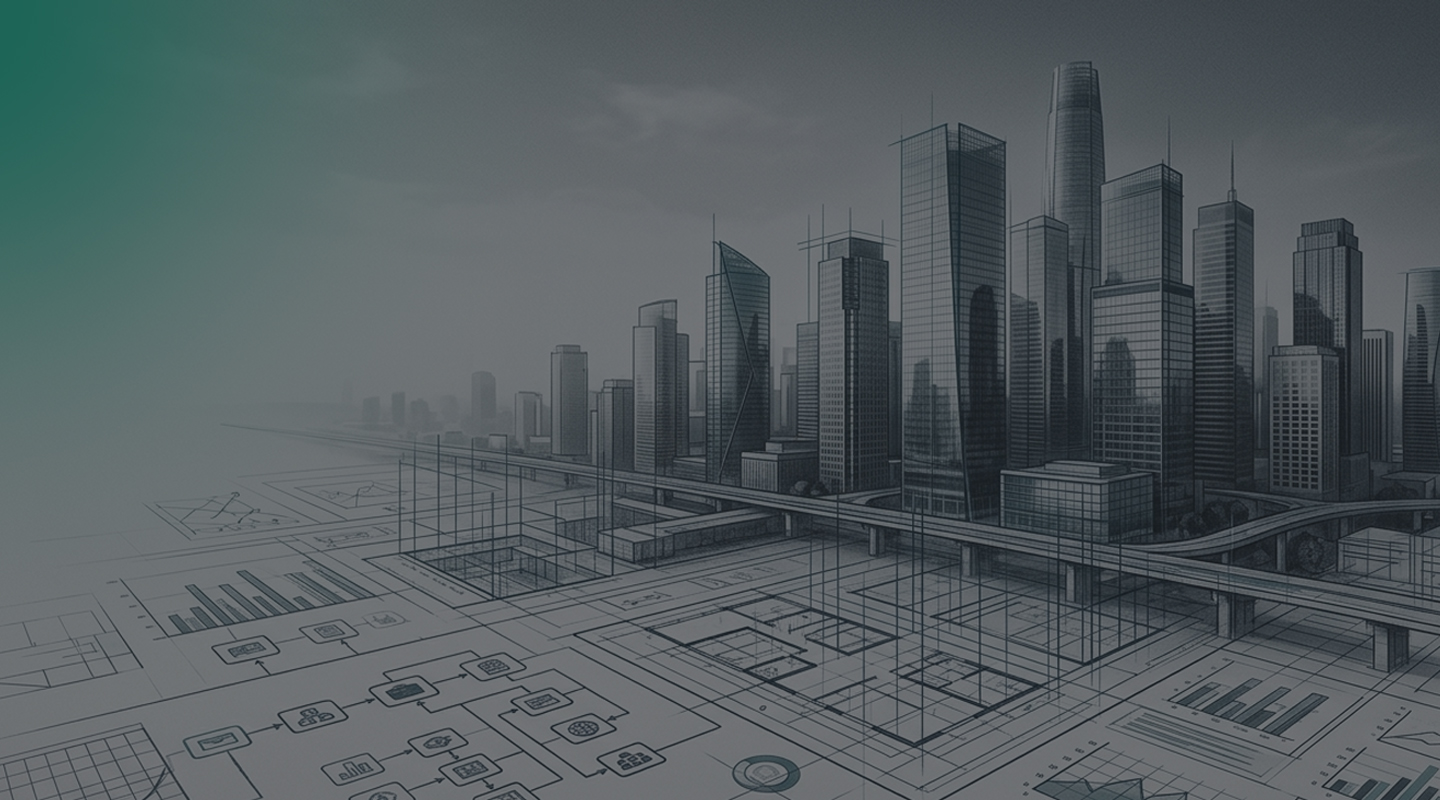
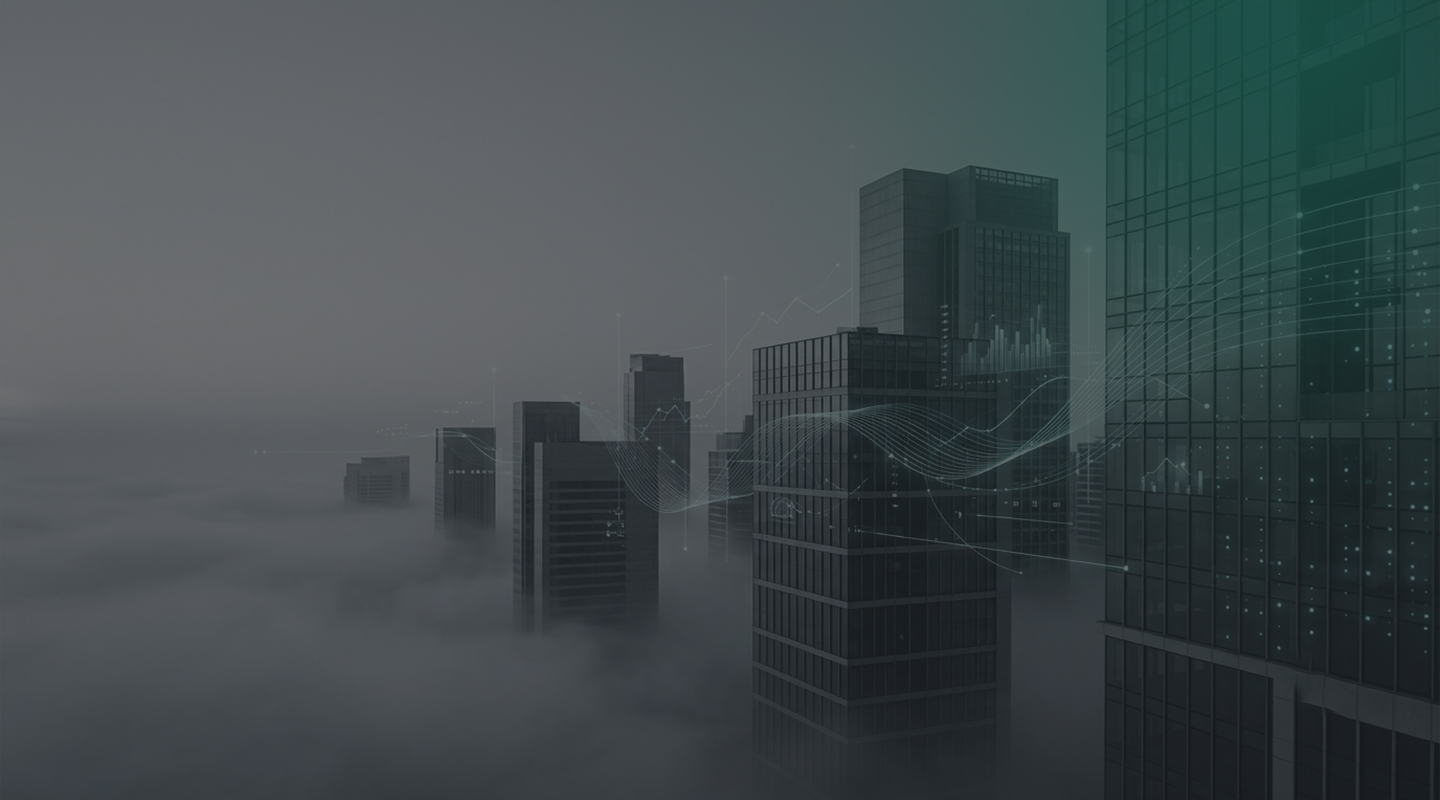
wip

diff --git a/site/src/data/site-content.ts b/site/src/data/site-content.ts
@@ -24,42 +24,40 @@ export const navLinks = [
 export const partnerships = [
   {
     shortName: "IFPG",
-    name: "International Franchise Professionals Group (IFPG)",
+    name: "International Franchise Professionals Group",
     description: "Supporting the consultant community with science-backed tools to better serve their clients.",
-    featured: true
+    linkName: "Learn more about IFPG →",
+    linkUrl: "https://www.ifpg.org/"
   },
   {
     shortName: "FBA",
-    name: "Franchise Brokers Association (FBA)",
-    description: "Connecting Zorakle with the broker community nationwide supporting brokers as they help clients find the right franchise match."
+    name: "Franchise Brokers Association",
+    description: "Connecting Zorakle with the broker community nationwide supporting brokers as they help clients find the right franchise match.",
+    linkName: "Learn more about FBA →",
+    linkUrl: "https://www.franchisebrokersassociation.com/"
   },
   {
     shortName: "IFA",
-    name: "International Franchise Association (IFA)",
-    description: "The industry's largest membership organization. Zorakle is a long-standing member and contributor to IFA programs that support emerging and established franchisors."
+    name: "International Franchise Association",
+    description: "The industry's largest membership organization. Zorakle is a long-standing member and contributor to IFA programs that support emerging and established franchisors.",
+    linkName: "Learn more about IFA →",
+    linkUrl: "https://www.franchise.org/"
   },
   {
     shortName: "FBR",
     name: "Franchise Business Review",
-    description: "Independent franchisee satisfaction research. Zorakle's work complements FBR's mission of transparency in the franchise industry."
+    description: "Independent franchisee satisfaction research. Zorakle's work complements FBR's mission of transparency in the franchise industry.",
+    linkName: "Learn more about FBR →",
+    linkUrl: "https://franchisebusinessreview.com/"
   },
   {
-    shortName: "IBA",
-    name: "International Business Brokers Association (IBA)",
+    shortName: "BAI",
+    name: "Business Alliance Incorporated",
     description: "Information needed from Rebecca.",
-    pending: true
+    linkName: "Learn more about BAI →",
+    linkUrl: "https://www.businessallianceinc.com/"
   }
 ];
-
-export const hero = {
-  eyebrow: "The Franchise Industry's Assessment Authority — Since 2014",
-  titlePrefix: "Award franchises with",
-  titleAccent: "science not gut feeling.",
-  description:
-    "For 12 years, franchise systems have trusted Zorakle to make smarter awards decisions. Seven validated sciences. One methodology built exclusively for franchising.",
-  primaryCta: { href: "/solutions/franchisors", label: "Franchisors" },
-  secondaryCta: { href: "/solutions/brokers", label: "Brokers" }
-};
 
 export const trustStats = [
   "12 Years in Franchising",